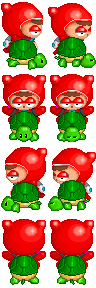
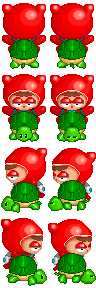
working directions,

Changed region(s): [[0.0, 0.75, 1.0, 1.0], [0.0, 0.0, 1.0, 0.25]]

diff --git a/CrazyArcade/PlayerStateMachine/PlayerStateRides.cs b/CrazyArcade/PlayerStateMachine/PlayerStateRides.cs
@@ -9,11 +9,11 @@ using Microsoft.Xna.Framework.Input;
 namespace CrazyArcade.PlayerStateMachine
 {
     //overall goal is to keep ride synced with player, speed, location, and direction.
+    //This class should only be able to lead to the free state, implementing the extra life
     public class PlayerStateRides : ICharacterState
     {
         Ride mount;
         private PlayerCharacter character;
-        private int direction; //0-3, in line w/ spriteAnims
         private bool d1HeldDown;
         private bool d2HeldDown;
 
@@ -21,7 +21,7 @@ namespace CrazyArcade.PlayerStateMachine
         {
             //int ride used to indicate turtle, pirate turtle, UFO, or owl [0-3]
             this.character = character;
-            Ride newRide = new Ride(character, ride);
+            Ride newRide = new(character, ride);
             mount = newRide;
             d1HeldDown = false;
             d2HeldDown = false;
@@ -47,12 +47,11 @@ namespace CrazyArcade.PlayerStateMachine
         {
             // shall do nothing
         }
-
         public void ProcessState(GameTime time)
         {
+            //duplicate code, fix
             character.CalculateMovement();
             character.UpdatePosition();
-            mount.Update(time);
             character.animationHandleInt = (int)character.direction;
             if (character.CurrentSpeed.X == 0 && character.CurrentSpeed.Y == 0)
             {

diff --git a/CrazyArcade/PlayerStateMachine/Ride.cs b/CrazyArcade/PlayerStateMachine/Ride.cs
@@ -42,15 +42,7 @@ namespace CrazyArcade.PlayerStateMachine
 
         public override void Update(GameTime time)
         {
-            if (player!= null)
-            {
-                X = player.X;
-                Y = player.Y - vertOffset;
-                if (player.direction == Dir.Left) dir = 0;
-                else if (player.direction == Dir.Down) dir = 1;
-                else if (player.direction == Dir.Right) dir = 2;
-                else dir = 3;
-            }
+            //does nothing
         }
 
         public void generateRide(int ride) {
@@ -72,7 +64,7 @@ namespace CrazyArcade.PlayerStateMachine
                 spriteAnims[i] = new SpriteAnimation(TextureSingleton.GetRides(), //texture
                     2, //frames
                     0, //xoff
-                    0, //yoff
+                    72*i, //yoff
                     48*2, //width
                     72, //height
                     3);//fps
